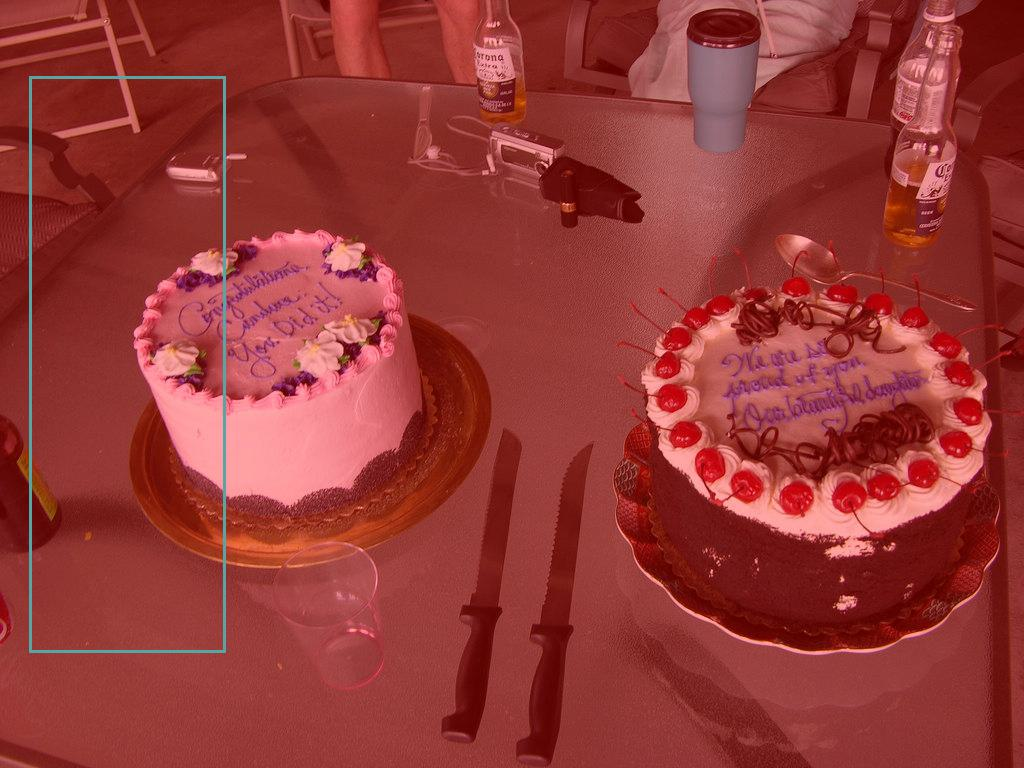
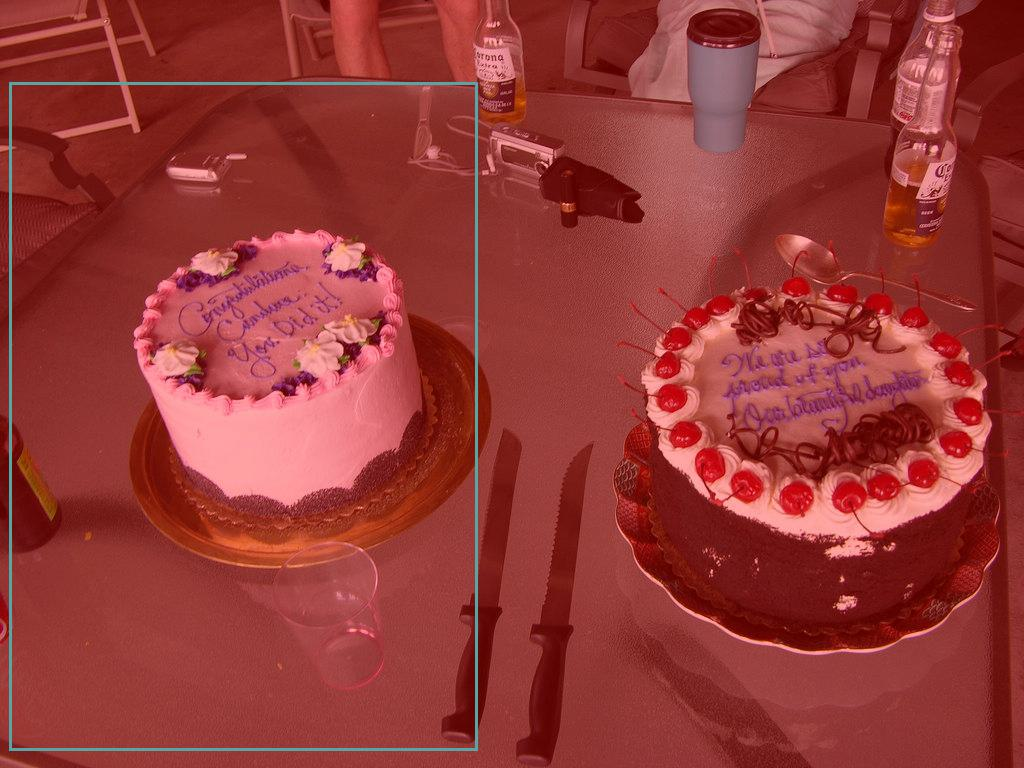
Updated README.md

Changed region(s): [[0.0, 0.0938, 0.4688, 1.0], [0.2188, 0.3438, 0.25, 0.375], [0.2188, 0.1875, 0.25, 0.2188]]

diff --git a/demo.py b/demo.py
@@ -1,5 +1,6 @@
 import argparse
 import os
+import gc
 from typing import Any, Dict, Tuple
 
 import torch
@@ -33,7 +34,7 @@ def _to_tensor(pil_image: Image.Image) -> torch.Tensor:
     return tensor
 
 
-def _normalize(t: torch.Tensor, mean=(0.485, 0.456, 0.406), std=(0.229, 0.224, 0.225)) -> torch.Tensor:
+def _normalize(t: torch.Tensor, mean=(0.48145466, 0.4578275, 0.40821073), std=(0.26862954, 0.26130258, 0.27577711)) -> torch.Tensor:
     assert t.ndim == 3 and t.shape[0] == 3
     mean_t = torch.tensor(mean, dtype=t.dtype, device=t.device)[:, None, None]
     std_t = torch.tensor(std, dtype=t.dtype, device=t.device)[:, None, None]
@@ -73,7 +74,7 @@ def _xywh_norm_to_xyxy_pixels(box_xywh_norm: torch.Tensor, W: int, H: int) -> to
     return torch.stack([x0, y0, x1, y1], dim=-1)
 
 
-def forward(model: Any, image: Image.Image, description: str) -> Dict:
+def forward(model: Any, image: Image.Image, description: str, norm: str = "clip", tta_flip: bool = False, mask_activation: str = "sigmoid") -> Dict:
     """
     Single-image inference. Returns a dict with fields ready for visualization on the original image size.
 
@@ -85,88 +86,110 @@ def forward(model: Any, image: Image.Image, description: str) -> Dict:
     """
     model_device = next(model.parameters()).device
 
-    # 1) Preprocess image -> resize by long side, to tensor, normalize, center-pad to square of args.imsize
+    # 1) 内部单图推理（可复用于 TTA）
+    def _infer_single(pil_img: Image.Image) -> Tuple[np.ndarray, np.ndarray, Any, Any]:
+        img_rgb = pil_img.convert("RGB")
+        imsize_local = getattr(model, 'imsize', 224)
+        resized_img, ratio = _resize_by_long_side(img_rgb, imsize_local)
+        tensor = _to_tensor(resized_img)
+        if norm == "clip":
+            tensor = _normalize(tensor, mean=(0.48145466, 0.4578275, 0.40821073), std=(0.26862954, 0.26130258, 0.27577711))
+        else:
+            tensor = _normalize(tensor, mean=(0.485, 0.456, 0.406), std=(0.229, 0.224, 0.225))
+        padded_img, pad_mask, top, left = _center_pad_to_square(tensor, imsize_local)
+
+        model_dtype = next(model.parameters()).dtype
+        # 保持输入为 float32，由 autocast 处理到合适精度，避免半精度 Conv2d 引擎不可用
+        img_tensor_bchw = padded_img.unsqueeze(0).to(model_device)
+        mask_bhw = pad_mask.unsqueeze(0).to(model_device)
+        nested = NestedTensor(img_tensor_bchw, mask_bhw)
+
+        text_list = [description]
+
+        model.eval()
+        for module in model.modules():
+            if hasattr(module, 'training'):
+                module.training = False
+            if hasattr(module, 'dropout') and hasattr(module.dropout, 'p'):
+                module.dropout.p = 0.0
+            if hasattr(module, 'dropout1') and hasattr(module.dropout1, 'p'):
+                module.dropout1.p = 0.0
+            if hasattr(module, 'dropout2') and hasattr(module.dropout2, 'p'):
+                module.dropout2.p = 0.0
+        if hasattr(model, 'clip'):
+            model.clip.eval()
+            for clip_module in model.clip.modules():
+                if hasattr(clip_module, 'training'):
+                    clip_module.training = False
+
+        use_autocast = (model_device.type == 'cuda' and model_dtype in (torch.float16, torch.bfloat16))
+        autocast_dtype = model_dtype if model_dtype in (torch.float16, torch.bfloat16) else torch.float32
+        with torch.inference_mode():
+            if use_autocast:
+                with torch.autocast(device_type='cuda', dtype=autocast_dtype):
+                    pred_box_norm, logits_per_text, logits_per_image, visu_token_similarity, seg_mask = model(nested, text_list)
+            else:
+                pred_box_norm, logits_per_text, logits_per_image, visu_token_similarity, seg_mask = model(nested, text_list)
+
+        pred_box_norm = pred_box_norm[0].detach().cpu()
+        seg_mask_small = seg_mask[0, 0].detach().cpu()
+
+        # Box: map back to original coordinates
+        box_xyxy_padded = _xywh_norm_to_xyxy_pixels(pred_box_norm, imsize_local, imsize_local)
+        x0, y0, x1, y1 = box_xyxy_padded.tolist()
+        x0 -= left; x1 -= left
+        y0 -= top;  y1 -= top
+        resized_w, resized_h = resized_img.size
+        x0 = max(0.0, min(x0, resized_w - 1))
+        x1 = max(0.0, min(x1, resized_w - 1))
+        y0 = max(0.0, min(y0, resized_h - 1))
+        y1 = max(0.0, min(y1, resized_h - 1))
+        inv_ratio = 1.0 / ratio
+        orig_w, orig_h = pil_img.size
+        x0_orig = x0 * inv_ratio
+        y0_orig = y0 * inv_ratio
+        x1_orig = x1 * inv_ratio
+        y1_orig = y1 * inv_ratio
+        x0_orig = max(0.0, min(x0_orig, orig_w - 1))
+        x1_orig = max(0.0, min(x1_orig, orig_w - 1))
+        y0_orig = max(0.0, min(y0_orig, orig_h - 1))
+        y1_orig = max(0.0, min(y1_orig, orig_h - 1))
+        box_xyxy_orig = np.array([x0_orig, y0_orig, x1_orig, y1_orig], dtype=np.float32)
+
+        # Seg: upsample back to original
+        seg_mask_small = seg_mask_small.unsqueeze(0).unsqueeze(0)
+        seg_mask_padded = torch.nn.functional.interpolate(seg_mask_small, size=(imsize_local, imsize_local), mode='bilinear', align_corners=False)[0, 0]
+        seg_mask_resized = seg_mask_padded[top: top + resized_h, left: left + resized_w]
+        seg_mask_resized = torch.nn.functional.interpolate(seg_mask_resized.unsqueeze(0).unsqueeze(0), size=(orig_h, orig_w), mode='bilinear', align_corners=False)[0, 0]
+
+        if mask_activation == "sigmoid":
+            seg_mask_resized = torch.sigmoid(seg_mask_resized)
+        else:
+            if seg_mask_resized.max() > seg_mask_resized.min():
+                seg_mask_resized = (seg_mask_resized - seg_mask_resized.min()) / (seg_mask_resized.max() - seg_mask_resized.min())
+            else:
+                seg_mask_resized = seg_mask_resized.clamp(min=0.0, max=1.0)
+
+        seg_mask_np = seg_mask_resized.numpy().astype(np.float32)
+        return box_xyxy_orig, seg_mask_np, logits_per_text, logits_per_image
+
+    # 原图推理
     image = image.convert("RGB")
-    imsize = getattr(model, 'imsize', 224)
-    resized_img, ratio = _resize_by_long_side(image, imsize)
-    tensor = _to_tensor(resized_img)
-    tensor = _normalize(tensor)
-    padded_img, pad_mask, top, left = _center_pad_to_square(tensor, imsize)
+    box_xyxy_orig, seg_mask_np, logits_per_text, logits_per_image = _infer_single(image)
 
-    # Build NestedTensor batch of size 1
-    img_tensor_bchw = padded_img.unsqueeze(0).to(model_device)
-    mask_bhw = pad_mask.unsqueeze(0).to(model_device)
-    nested = NestedTensor(img_tensor_bchw, mask_bhw)
-
-    # 2) Text batch
-    text_list = [description]
-
-    # 3) Model forward
-    model.eval()
-    # 确保所有子模块都设置为eval模式
-    for module in model.modules():
-        if hasattr(module, 'training'):
-            module.training = False
-        # 特别处理dropout层
-        if hasattr(module, 'dropout') and hasattr(module.dropout, 'p'):
-            module.dropout.p = 0.0
-        if hasattr(module, 'dropout1') and hasattr(module.dropout1, 'p'):
-            module.dropout1.p = 0.0
-        if hasattr(module, 'dropout2') and hasattr(module.dropout2, 'p'):
-            module.dropout2.p = 0.0
-    
-    # 设置CLIP模型为eval模式
-    if hasattr(model, 'clip'):
-        model.clip.eval()
-        for clip_module in model.clip.modules():
-            if hasattr(clip_module, 'training'):
-                clip_module.training = False
-    
-    with torch.no_grad():
-        pred_box_norm, logits_per_text, logits_per_image, visu_token_similarity, seg_mask = model(nested, text_list)
-
-    # Shapes: pred_box_norm (B,4) in normalized xywh; seg_mask (B,1,H',W')
-    pred_box_norm = pred_box_norm[0].detach().cpu()
-    seg_mask_small = seg_mask[0, 0].detach().cpu()  # (H', W')
-
-    # 4) Postprocess box back to original image coordinates
-    # First map to padded canvas (imsize x imsize), then remove padding, then rescale back to original
-    box_xyxy_padded = _xywh_norm_to_xyxy_pixels(pred_box_norm, imsize, imsize)
-    # Remove padding
-    x0, y0, x1, y1 = box_xyxy_padded.tolist()
-    x0 -= left; x1 -= left
-    y0 -= top;  y1 -= top
-    # Clip to resized image frame
-    resized_w, resized_h = resized_img.size
-    x0 = max(0.0, min(x0, resized_w - 1))
-    x1 = max(0.0, min(x1, resized_w - 1))
-    y0 = max(0.0, min(y0, resized_h - 1))
-    y1 = max(0.0, min(y1, resized_h - 1))
-    # Map back to original
-    inv_ratio = 1.0 / ratio
-    orig_w, orig_h = image.size
-    x0_orig = x0 * inv_ratio
-    y0_orig = y0 * inv_ratio
-    x1_orig = x1 * inv_ratio
-    y1_orig = y1 * inv_ratio
-    # Clip to original
-    x0_orig = max(0.0, min(x0_orig, orig_w - 1))
-    x1_orig = max(0.0, min(x1_orig, orig_w - 1))
-    y0_orig = max(0.0, min(y0_orig, orig_h - 1))
-    y1_orig = max(0.0, min(y1_orig, orig_h - 1))
-    box_xyxy_orig = np.array([x0_orig, y0_orig, x1_orig, y1_orig], dtype=np.float32)
-
-    # 5) Postprocess segmentation mask back to original image size
-    # Upsample seg_mask_small -> (imsize, imsize), remove padding, resize back to original
-    seg_mask_small = seg_mask_small.unsqueeze(0).unsqueeze(0)  # 1x1xH'xW'
-    seg_mask_padded = torch.nn.functional.interpolate(seg_mask_small, size=(imsize, imsize), mode='bilinear', align_corners=False)[0, 0]
-    seg_mask_resized = seg_mask_padded[top: top + resized_h, left: left + resized_w]
-    seg_mask_resized = torch.nn.functional.interpolate(seg_mask_resized.unsqueeze(0).unsqueeze(0), size=(orig_h, orig_w), mode='bilinear', align_corners=False)[0, 0]
-    seg_mask_resized = seg_mask_resized.clamp(min=0.0)
-    # Normalize to [0,1] for visualization
-    if seg_mask_resized.max() > 0:
-        seg_mask_resized = seg_mask_resized / seg_mask_resized.max()
-    seg_mask_np = seg_mask_resized.numpy().astype(np.float32)
+    # 水平翻转 TTA
+    if tta_flip:
+        flipped = image.transpose(Image.FLIP_LEFT_RIGHT)
+        box_xyxy_f, seg_mask_np_f, _, _ = _infer_single(flipped)
+        W, _ = image.size
+        # 将翻转图的 box 映射回原图坐标
+        x0_f, y0_f, x1_f, y1_f = box_xyxy_f.tolist()
+        box_xyxy_f_unflip = np.array([W - x1_f, y0_f, W - x0_f, y1_f], dtype=np.float32)
+        # 将翻转图的 seg 水平反转回原图
+        seg_mask_np_f_unflip = seg_mask_np_f[:, ::-1].copy()
+        # 融合（平均）
+        box_xyxy_orig = (box_xyxy_orig + box_xyxy_f_unflip) / 2.0
+        seg_mask_np = (seg_mask_np + seg_mask_np_f_unflip) / 2.0
 
     result: Dict[str, Any] = {
         "box_xyxy": box_xyxy_orig,
@@ -193,7 +216,7 @@ def _draw_visualization(image: Image.Image, box_xyxy: np.ndarray, seg_mask: np.n
 
 
 def load_model(checkpoint_path: str, device: str = "cuda", model_name: str = "ViT-B/16", imsize: int = 224,
-               dataset: str = "referit") -> Any:
+               dataset: str = "referit", allow_tf32: bool = False, precision: str = "fp32") -> Any:
     """
     Build HiVG model and load pretrained checkpoint.
     The CLIP pretrained paths are defined inside models/HiVG.py.
@@ -272,7 +295,58 @@ def load_model(checkpoint_path: str, device: str = "cuda", model_name: str = "Vi
     args.device = device
     
     model = build_model(args)
-    model.to(torch.device(device))
+    # 将模型一次性迁移到目标设备与精度，避免中途多次 cast 占用显存
+    target_device = torch.device(device)
+    precision = precision.lower()
+
+    def _cast_model_dtype(m, p: str):
+        if p == 'fp16':
+            return m.to(dtype=torch.float16)
+        if p == 'bf16':
+            return m.to(dtype=torch.bfloat16)
+        return m.to(dtype=torch.float32)
+
+    def _cleanup_cuda():
+        try:
+            torch.cuda.empty_cache()
+        except Exception:
+            pass
+        gc.collect()
+
+    # 首次尝试使用用户指定精度
+    model = _cast_model_dtype(model, precision)
+    try:
+        model.to(target_device)
+    except RuntimeError as e:
+        if 'CUDA out of memory' in str(e) and target_device.type == 'cuda':
+            _cleanup_cuda()
+            # 依次降级精度重试
+            fallback_chain = []
+            if precision == 'fp32':
+                fallback_chain = ['bf16', 'fp16']
+            elif precision == 'bf16':
+                fallback_chain = ['fp16']
+            elif precision == 'fp16':
+                fallback_chain = []
+            moved = False
+            for p in fallback_chain:
+                try:
+                    model = _cast_model_dtype(model, p)
+                    model.to(target_device)
+                    print(f"Warning: CUDA OOM. Fallback to precision={p} succeeded.")
+                    moved = True
+                    break
+                except RuntimeError as e2:
+                    if 'CUDA out of memory' not in str(e2):
+                        raise
+                    _cleanup_cuda()
+            if not moved:
+                # 最终退回 CPU
+                print("Warning: CUDA OOM. Falling back to CPU device.")
+                model = _cast_model_dtype(model, 'fp32')
+                model.to(torch.device('cpu'))
+        else:
+            raise
     
     # 设置随机种子以确保结果一致性
     torch.manual_seed(args.seed)
@@ -282,8 +356,21 @@ def load_model(checkpoint_path: str, device: str = "cuda", model_name: str = "Vi
     torch.backends.cudnn.benchmark = False
     
     # 设置更严格的确定性
-    torch.use_deterministic_algorithms(True)
-    torch.set_float32_matmul_precision('high')
+    # 半精度下，过于严格的确定性可能导致某些算子不可用
+    use_strict_det = precision not in ('fp16', 'bf16')
+    torch.use_deterministic_algorithms(use_strict_det)
+    try:
+        torch.set_float32_matmul_precision('highest')
+    except Exception:
+        pass
+    if torch.cuda.is_available():
+        try:
+            torch.backends.cuda.matmul.allow_tf32 = bool(allow_tf32)
+            torch.backends.cudnn.allow_tf32 = bool(allow_tf32)
+        except Exception:
+            pass
+        # 启用 cudnn benchmark 以选择可用最优实现（对半精度/不同输入大小更稳妥）
+        torch.backends.cudnn.benchmark = True
     
     # 设置环境变量
     import os
@@ -326,12 +413,17 @@ def main():
     parser.add_argument('--model', type=str, default='ViT-B/16', choices=['ViT-B/16', 'ViT-B/32', 'ViT-L/14', 'ViT-L/14-336'])
     parser.add_argument('--imsize', type=int, default=224)
     parser.add_argument('--dataset', type=str, default='referit', choices=['referit', 'flickr', 'unc', 'unc+', 'gref', 'gref_umd', 'mixup'])
+    parser.add_argument('--norm', type=str, default='clip', choices=['clip', 'imagenet'])
+    parser.add_argument('--tta_flip', action='store_true')
+    parser.add_argument('--mask_activation', type=str, default='sigmoid', choices=['sigmoid', 'none'])
+    parser.add_argument('--allow_tf32', action='store_true')
+    parser.add_argument('--precision', type=str, default='fp32', choices=['fp32', 'fp16', 'bf16'])
     args = parser.parse_args()
 
-    model = load_model(args.checkpoint, device=args.device, model_name=args.model, imsize=args.imsize, dataset=args.dataset)
+    model = load_model(args.checkpoint, device=args.device, model_name=args.model, imsize=args.imsize, dataset=args.dataset, allow_tf32=args.allow_tf32, precision=args.precision)
 
     pil_image = Image.open(args.input_image_path).convert('RGB')
-    outputs = forward(model, pil_image, args.prompt)
+    outputs = forward(model, pil_image, args.prompt, norm=args.norm, tta_flip=args.tta_flip, mask_activation=args.mask_activation)
 
     vis = _draw_visualization(pil_image, outputs['box_xyxy'], outputs['seg_mask'])
     os.makedirs(os.path.dirname(args.output_image_path) or '.', exist_ok=True)

diff --git a/README.md b/README.md
@@ -89,4 +89,7 @@ conda activate hivg_new && python demo.py --input_image_path image/vg2.jpg --pro
 conda activate hivg_new && python demo.py --input_image_path image/vg2.jpg --prompt "the cake on the right" --output_image_path image/result_cake_right.jpg --checkpoint ./finetuning_base/referit/best_checkpoint.pth --device cuda --dataset referit
 ```
 
-
+## 4. 结果
+![原图](image/vg2.jpg "原图")
+![左边蛋糕](image/result_cake_left.jpg "左边蛋糕")
+![右边蛋糕](image/result_cake_right.jpg "右边蛋糕")
